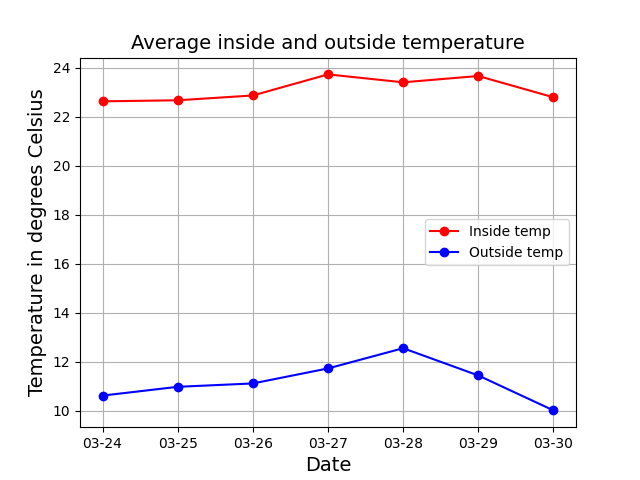
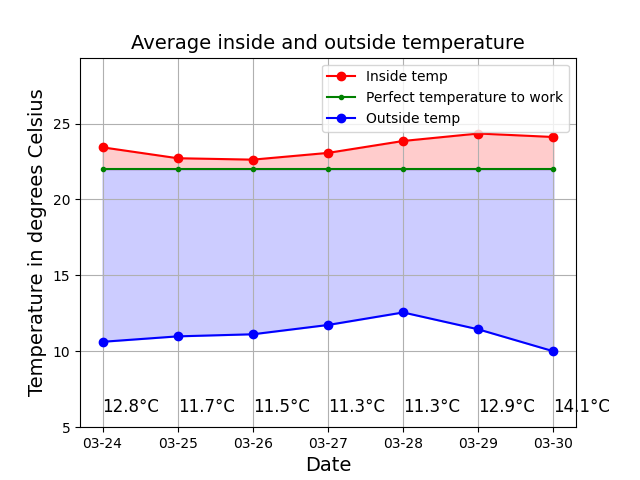
better observations

diff --git a/energy_savings.py b/energy_savings.py
@@ -16,12 +16,19 @@ from data_collector import get_historical_weather_reading
 client = InfluxDBClient(url=influx_url, token=token, org=org)
 query_api = client.query_api()
 
+
+days_to_plot=7
+optimum_temp=22
+
+
 #Observations
 #Plot of the evolution of the inside average temperature during a week
 def get_average_temp_over_last_days(n_days):
     temp_by_day=[]
+    dates = [datetime.now().replace(hour=0, minute=0, second=0, microsecond=0) - timedelta(days = i) for i in range(n_days + 1)]
+
     for i in range(n_days):
-        temp_by_day.append(get_range_mean_reading(datetime.now() - timedelta(days= i + 1), datetime.now() - timedelta(days=i), "temperature"))
+        temp_by_day.append(get_range_mean_reading(dates[i + 1], dates[i], "temperature"))
 
     return temp_by_day
 
@@ -43,14 +50,30 @@ def get_outside_temp_over_last_days(ndays):
 
 def inside_outside_temp_evolution_plot():
     fig,ax=plt.subplots()
+
+    good_temps = [optimum_temp for i in range(len(days))]
+
     ax.plot(days, inside_temp_by_days, color='red', marker='o')
+    ax.plot(days, good_temps, color='green', marker='.')
     ax.plot(days, outside_temp_by_days, color='blue', marker='o')
     ax.set_title('Average inside and outside temperature', fontsize=14)
     ax.set_xlabel('Date', fontsize=14)
+
+    plt.fill_between(days, good_temps, outside_temp_by_days, color="blue", alpha=0.2)
+    plt.fill_between(days, inside_temp_by_days, good_temps, color="red", alpha=0.2)
+
+    ymin = (min(outside_temp_by_days) if min(outside_temp_by_days) < min(inside_temp_by_days) else min(inside_temp_by_days)) - 5
+    ymax = (max(outside_temp_by_days) if max(outside_temp_by_days) > max(inside_temp_by_days) else max(inside_temp_by_days)) + 5
+    for i in range(len(days)):
+        plt.text(days[i], ymin + 1, f'{abs(inside_temp_by_days[i]-outside_temp_by_days[i]):.1f}°C', size=12)
+
+    plt.ylim([ymin,ymax])
+
     ax.set_xticks(days,rotation=25)
     ax.set_ylabel('Temperature in degrees Celsius', fontsize=14)
-    ax.legend(["Inside temp","Outside temp"])
+    ax.legend(["Inside temp","Perfect temperature to work", "Outside temp"])
     ax.grid(True)
+
     plt.savefig('./static/assets/img/energy_savings/inside_outside_temp.png')
 
 
@@ -110,8 +133,6 @@ def convert_energy_money_np(energy):
 
 
 
-days_to_plot=7
-optimum_temp=23
 inside_temp_by_days= get_average_temp_over_last_days(days_to_plot)[::-1]
 
 days = [str(datetime.now()-timedelta(days=i)).split(" ")[0][5:] for i in range(days_to_plot)][::-1]
@@ -121,10 +142,9 @@ dif=np.array(inside_temp_by_days) -np.array(outside_temp_by_days)
 temp_inside_average=np.average(inside_temp_by_days)
 temp_outside_average =np.average(outside_temp_by_days)
 consumption_average=np.average(consumption)
-#Recommendations :
-def compute_dif_temp(temp):
 
-    return temp_average-temp
+
+#Recommendations :
 
 def compute_energy_savings(temp,outside ):
     energy = consumption_computing(temp, outside)

diff --git a/flaskApp.py b/flaskApp.py
@@ -32,7 +32,6 @@ from energy_savings import get_energy_infos, optimum_temp
 
 app = Flask(__name__)
 app.secret_key = b'_5#y2L"F4Q8z\n\xec]/'
-alertprofiles_to_snooze = []
 
 
 @app.route('/', methods=['GET'])
@@ -58,7 +57,7 @@ def heatmap():
                            gap=gap)
 
 
-@app.route('/energy_management', methods=["GET","POST"])
+@app.route('/energy_management', methods=["GET"])
 def energy_management():
     optimum_reduction, weekly_energy_expenses,monthly_energy_saved=get_energy_infos()
     energy_expenses_sentence1 ="We estimate in the last 7 days that you spent "
@@ -80,20 +79,17 @@ def energy_management():
 def grafana_chart():
     time_picker_tohours = {"Last hour" : 1,"Last 4 hours": 4, "Last 24 hours":24, "Last 2 days":48, "Last 7 days":168, "Last 30 days": 720, "Last 90 days": 2160}
     content = 'Grafana Chart'
-    default_selected = "Last 7 days"
+    selected = "Last 7 days" if request.method == 'GET' else request.form.get('times', '')
 
-    if request.method == 'GET':
-        end_tick = ticks(datetime.now())
-        start_tick = ticks(datetime.now() + timedelta(hours=-time_picker_tohours[default_selected]))
-        return render_template("grafana_import.html", content=content, times = [*time_picker_tohours], default_select=default_selected, start_tick = start_tick, end_tick = end_tick)
-    else:
-        selected = request.form.get('times', '')
-        end_tick = ticks(datetime.now())
-        start_tick = ticks(datetime.now() + timedelta(hours=-time_picker_tohours[selected]))
-        return render_template("grafana_import.html", content=content, times = [*time_picker_tohours], default_select=selected, start_tick = start_tick, end_tick = end_tick)
+    end_tick = ticks(datetime.now())
+    start_tick = ticks(datetime.now() + timedelta(hours=-time_picker_tohours[selected]))
+    return render_template("grafana_import.html", content=content, times = [*time_picker_tohours], default_select=selected, start_tick = start_tick, end_tick = end_tick)
+
 
 def ticks(dt):
     return time.mktime(dt.timetuple()) * 1000
+
+
 
 @app.route('/', methods=['GET', 'POST'])
 def alert():
